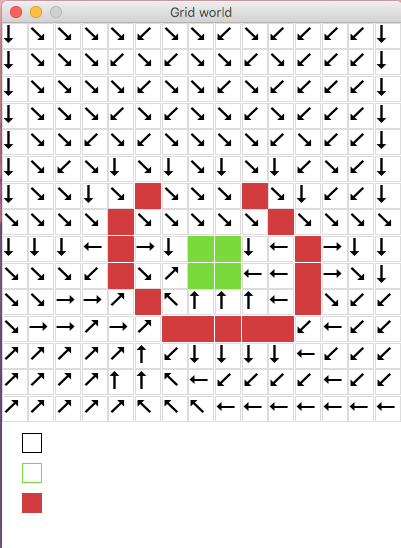
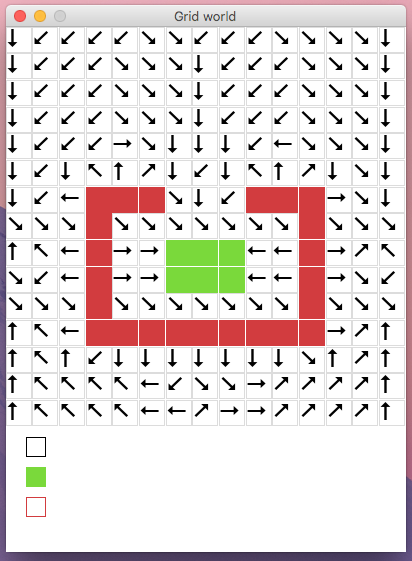
clear capability

diff --git a/environment.py b/environment.py
@@ -4,8 +4,8 @@ import cell
 
 
 # value iteration
-width = 15
-height = 15
+width = 10
+height = 10
 
 
 def perform_alg():
@@ -57,12 +57,14 @@ def perform_alg():
 
             cells[i][j].label = font.render(char_to_add, 1, (0, 0, 0))
 
+    print(grid_world.count)
+
 
 pygame.init()
 
 
-world_w = 400
-world_h = 400
+world_w = 500
+world_h = 500
 cell_w = world_w/width
 cell_h = world_h/height
 
@@ -98,13 +100,12 @@ for row in range(0, height):
     cells.append(new_row)
 
 
-def draw(canvas, act, objs, clls):
-    a = act
+def draw(canvas):
     canvas.fill((255, 255, 255))
     count = 0
-    for i in range(0, len(clls)):
-        for j in range(0, len(clls[i])):
-            current_cell = clls[i][j]
+    for i in range(0, len(cells)):
+        for j in range(0, len(cells[i])):
+            current_cell = cells[i][j]
 
             if current_cell.filled:
                 pygame.draw.rect(canvas, current_cell.color, current_cell.rect)
@@ -114,15 +115,24 @@ def draw(canvas, act, objs, clls):
             canvas.blit(current_cell.label, (current_cell.rect.left, current_cell.rect.top))
             count += 1
 
-    for ob in range(0, len(objs)):
-        if objs[ob].filled and a[ob] == 1:
-            pygame.draw.rect(canvas, objs[ob].color, objs[ob].rect)
+    for ob in range(0, len(objects)):
+        if objects[ob].filled and active[ob] == 1:
+            pygame.draw.rect(canvas, objects[ob].color, objects[ob].rect)
         else:
-            pygame.draw.rect(canvas, objs[ob].color, objs[ob].rect, 1)
+            pygame.draw.rect(canvas, objects[ob].color, objects[ob].rect, 1)
 
+
+def clear():
+    for i in range(0, len(cells)):
+        for j in range(0, len(cells[i])):
+            current_cell = cells[i][j]
+
+            current_cell.color = cell_color
+            current_cell.label = font.render("", 1, (0, 0, 0))
+            current_cell.filled = False
 
 while not stopped:
-    draw(gameDisplay, active, objects, cells)
+    draw(gameDisplay)
 
     for event in pygame.event.get():
         if event.type == pygame.QUIT:
@@ -160,6 +170,8 @@ while not stopped:
         elif event.type == pygame.KEYDOWN:
             if event.key == pygame.K_RETURN:
                 perform_alg()
+            elif event.key == pygame.K_c:
+                clear()
 
     pygame.display.update()
     clock.tick(60)

diff --git a/GridWorld.py b/GridWorld.py
@@ -19,6 +19,7 @@ class GridWorld:
         self.prev_values = np.zeros((height + 2, width + 2))
         self.policy = np.zeros((height, width))
 
+        self.count = 0
         if isinstance(good_n, int):
             for pg in range(0, good_n):
                 self.good_p.append((random.randint(0, height - 1), random.randint(0, width - 1)))
@@ -113,6 +114,7 @@ class GridWorld:
                 count += 1
 
         self.policy = p
+        self.count = count
 
     def policy_iteration(self, gamma, rs, max_iter, value_test):
         iterating = True
@@ -133,6 +135,8 @@ class GridWorld:
             count += 1
 
         self.policy = p
+        self.count = count*value_test
+
 
     def extract_policy(self, gamma, rs):
         ex_values = gamma * self.prev_values + rs
